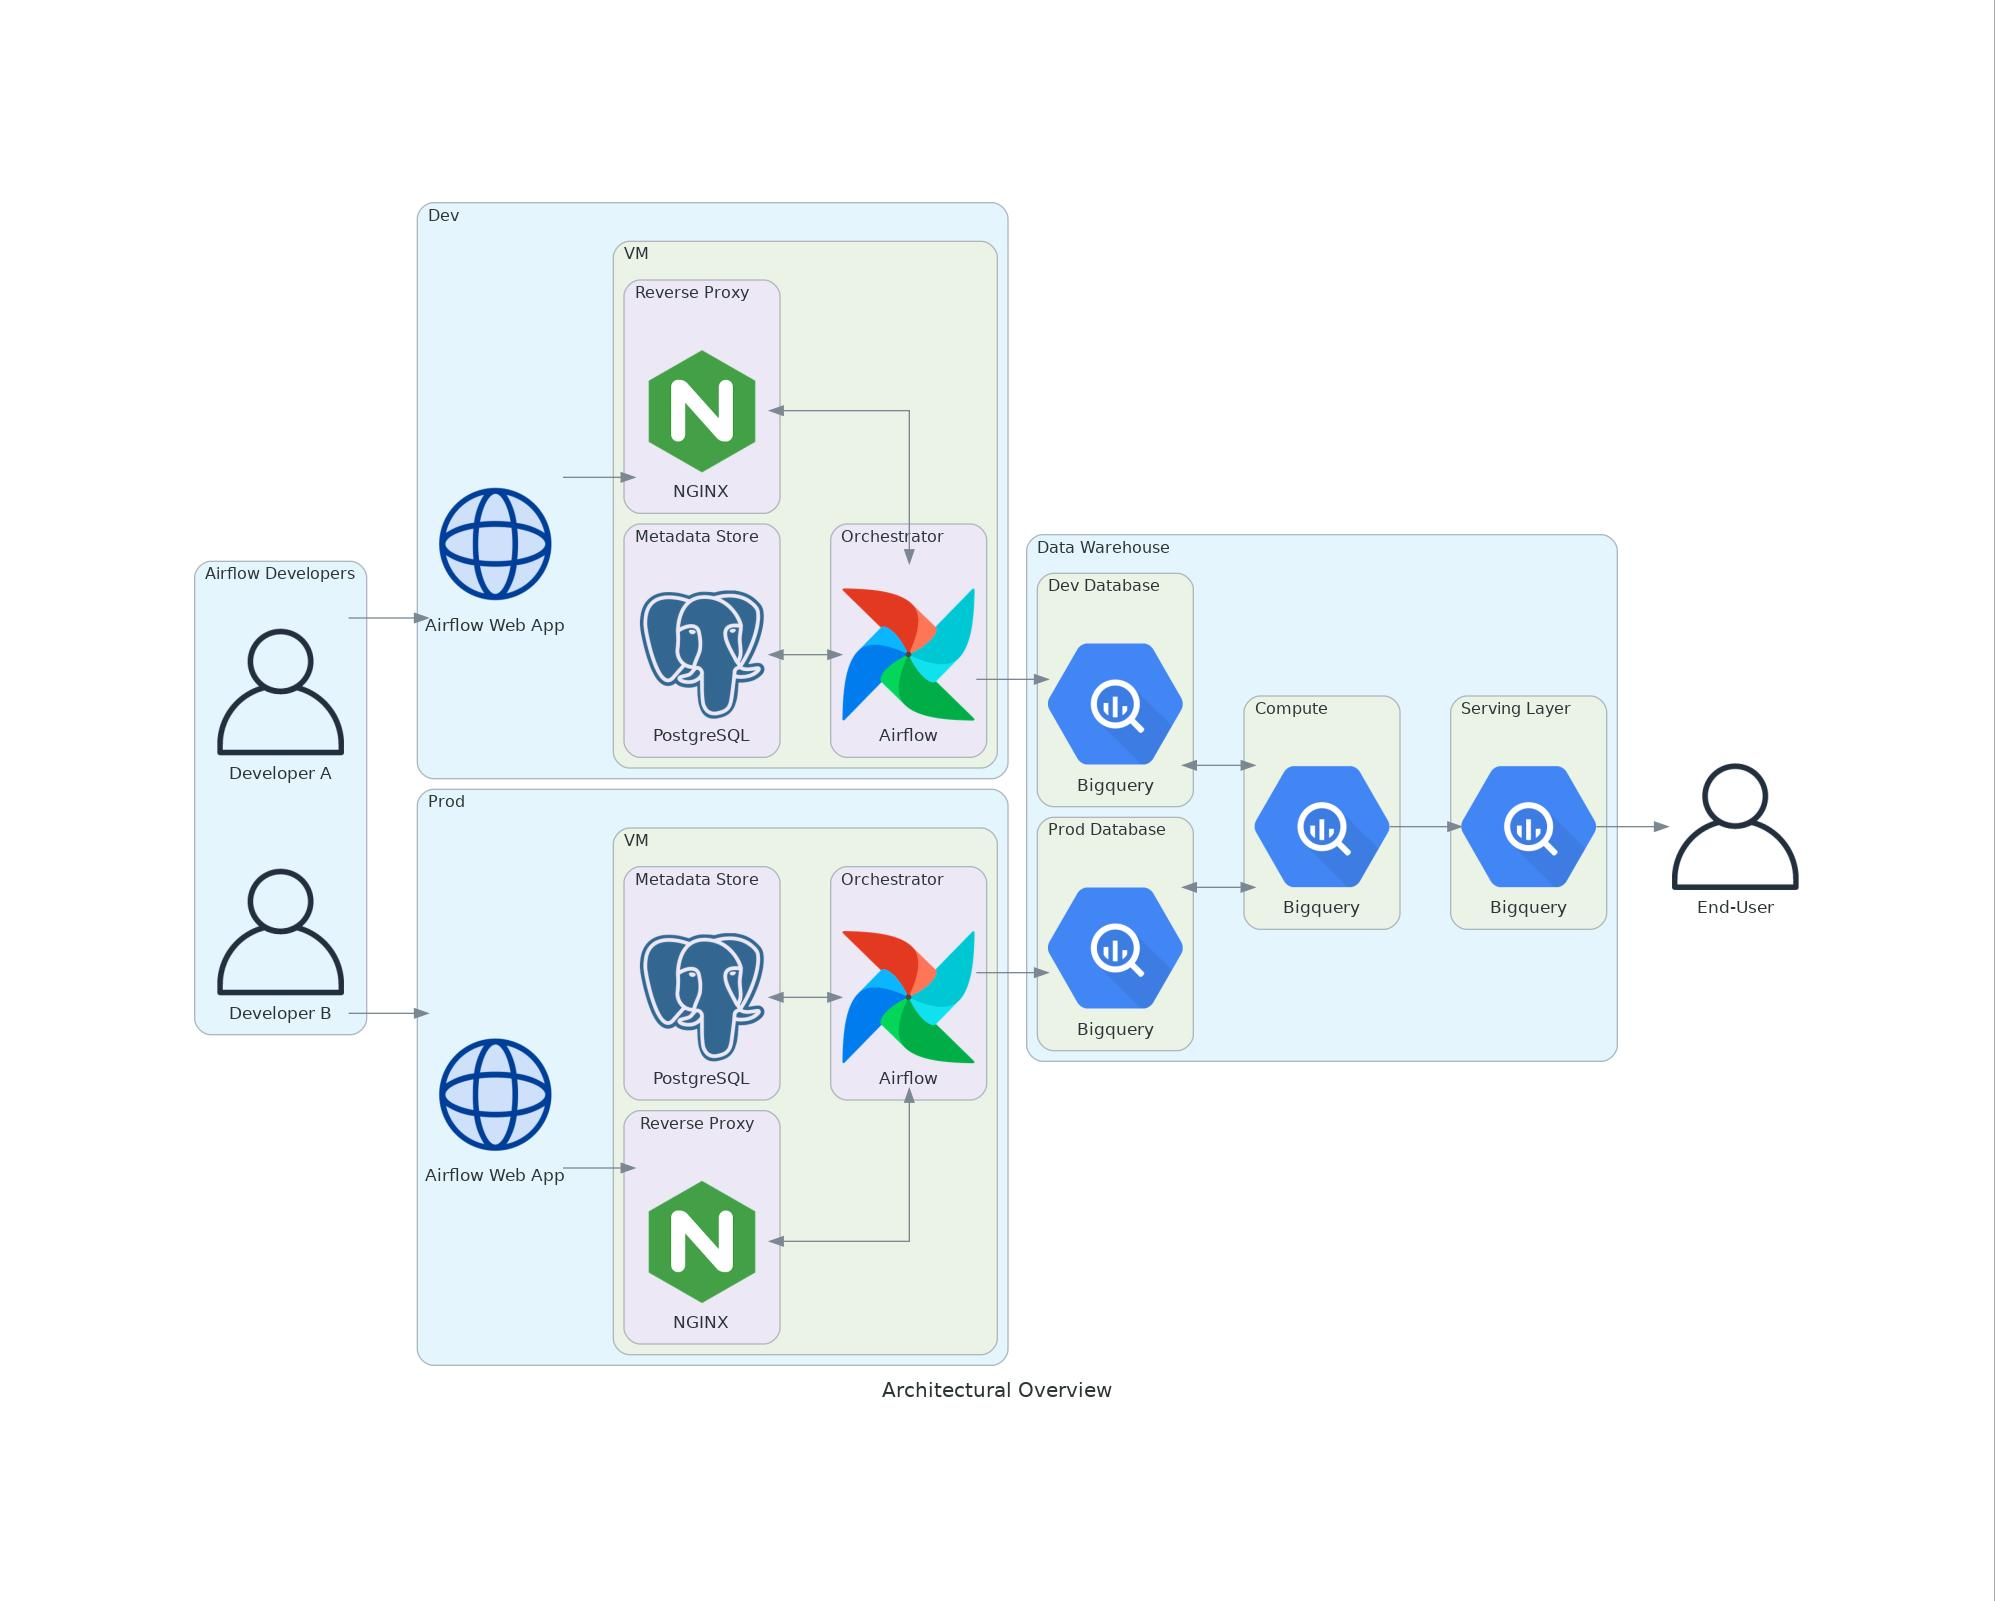
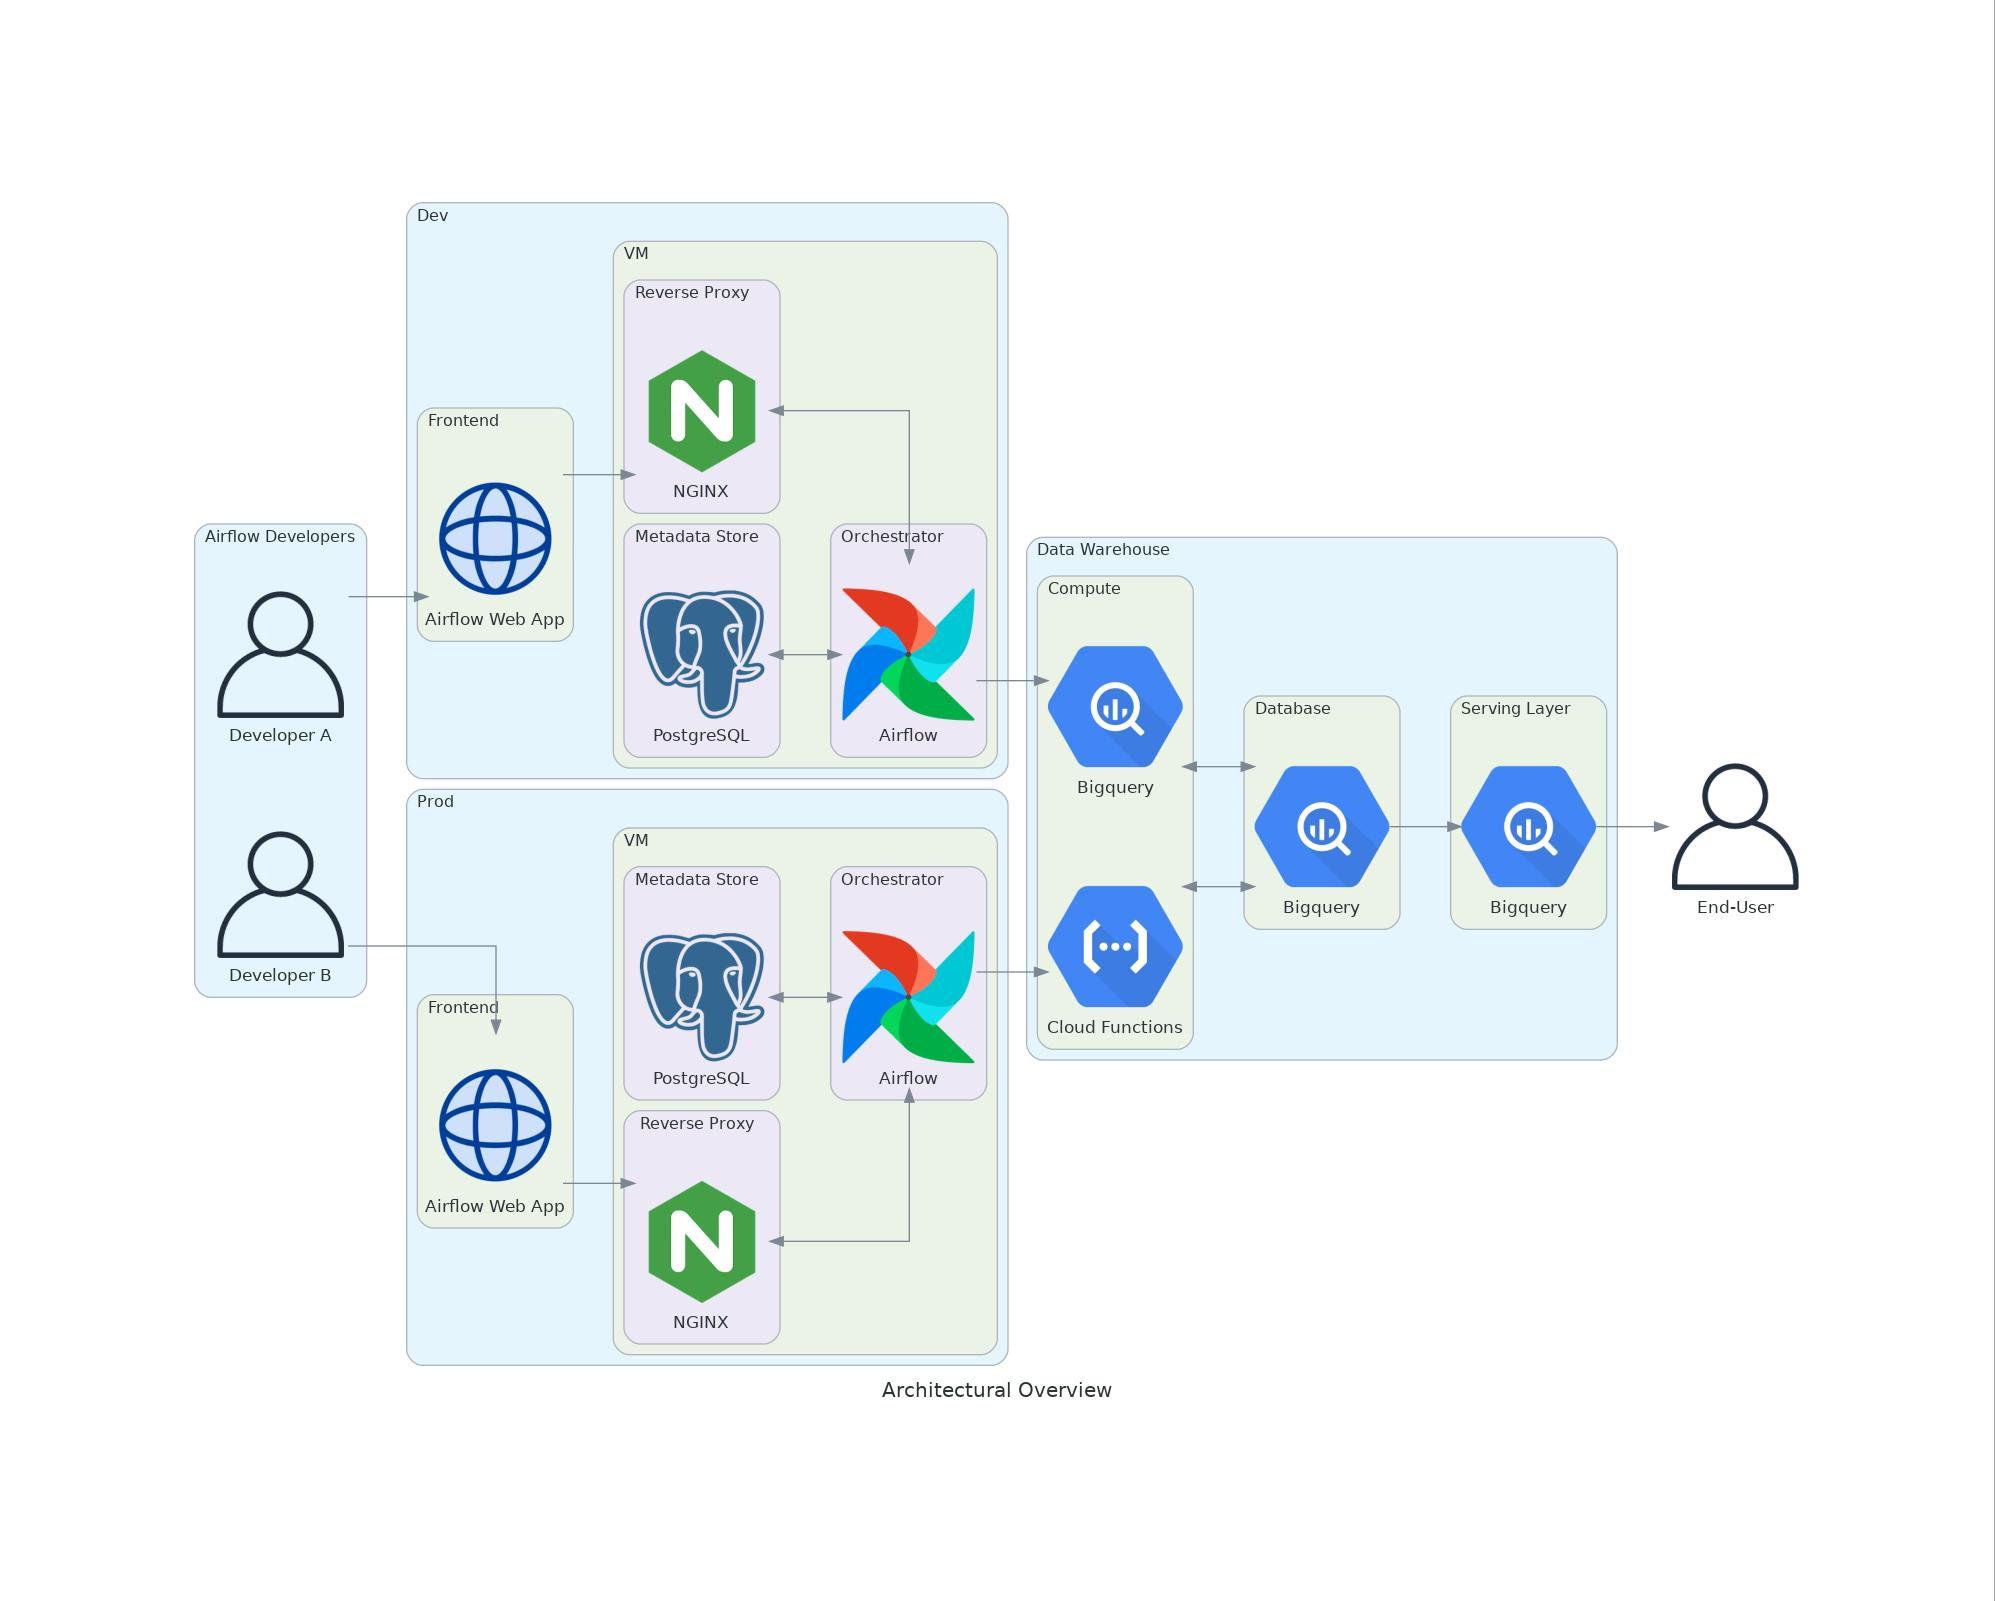
Update with Cloud Functions information

diff --git a/diagrams/generate_overview.py b/diagrams/generate_overview.py
@@ -2,11 +2,11 @@ from fileinput import filename
 from diagrams import Cluster, Diagram, Edge
 from diagrams.onprem.client import User
 from diagrams.digitalocean.network import Domain
-from diagrams.onprem.database import Druid
 from diagrams.onprem.workflow import Airflow
 from diagrams.onprem.database import PostgreSQL
 from diagrams.onprem.network import Nginx
 from diagrams.gcp.analytics import Bigquery
+from diagrams.gcp.compute import Functions
 
 
 with Diagram("Architectural Overview", show=False, outformat="jpg", filename="./images/architectural_overview"):
@@ -17,7 +17,8 @@ with Diagram("Architectural Overview", show=False, outformat="jpg", filename="./
     end_user = User("End-User")
 
     with Cluster("Dev"):
-        web_dev = Domain("Airflow Web App")
+        with Cluster("Frontend"):
+            web_dev = Domain("Airflow Web App")
         with Cluster("VM"):
 
             with Cluster("Reverse Proxy"):
@@ -35,7 +36,8 @@ with Diagram("Architectural Overview", show=False, outformat="jpg", filename="./
 
 
     with Cluster("Prod"):
-        web_prod = Domain("Airflow Web App")
+        with Cluster("Frontend"):
+            web_prod = Domain("Airflow Web App")
 
         with Cluster("VM"):
             with Cluster("Metadata Store"):
@@ -52,21 +54,22 @@ with Diagram("Architectural Overview", show=False, outformat="jpg", filename="./
             
 
     with Cluster("Data Warehouse"):
-        with Cluster("Dev Database"):
-            bigquery_dev = Bigquery("Bigquery")
-        
-        with Cluster("Prod Database"):
-            bigquery_prod = Bigquery("Bigquery")
+        with Cluster("Database"):
+            bigquery = Bigquery("Bigquery")
 
         with Cluster("Compute"):
             bigquery_compute = Bigquery("Bigquery")
 
+        with Cluster("Compute"):
+            gcp_functions = Functions("Cloud Functions")
+
         with Cluster("Serving Layer"):
             bigquery_serving = Bigquery("Bigquery")
         
-        database = [bigquery_dev, bigquery_prod]
-        database >> Edge() << bigquery_compute
-        bigquery_compute >> bigquery_serving
+
+        all_compute = [bigquery_compute, gcp_functions]
+        all_compute >> Edge() << bigquery
+        bigquery >> bigquery_serving
 
 
     airflow_user_a >> web_dev
@@ -74,8 +77,8 @@ with Diagram("Architectural Overview", show=False, outformat="jpg", filename="./
     web_dev >> nginx_dev
     web_prod >> nginx_prod
 
-    airflow_dev >> bigquery_dev
-    airflow_prod >> bigquery_prod
+    airflow_dev >> bigquery_compute
+    airflow_prod >> gcp_functions
 
     bigquery_serving >> end_user
 

diff --git a/README.md b/README.md
@@ -16,9 +16,10 @@ Alternatively, if you are viewing this README on the VM itself, and are using Vi
 ### Important Links
 
 * Airflow Web App for Dev VM: [`https://dev.is3107.live/`](https://dev.is3107.live/)
+    * VM at `34.127.0.57`
 
 * Airflow Web App for Production VM [`https://is3107.live/`](https://is3107.live/)
-    * TODO Not up yet -> Currently just redirects to Dev VM :upside_down_face: 
+    * VM at `35.199.159.0`
 
 ### First-time Setup
 1. SSH into the Dev VM:
@@ -268,6 +269,33 @@ Hadoop HDFS (Storage) - Spark (Compute) - Hive / Presto (Serving Layer)
 Ultimately, we chose not to do so because it was likely that we would have only been able to deploy 1-2 nodes at most due to cost considerations, defeating the point of implementing a distributed storage and compute architecture.
 </details>
 
+### Cloud Functions
+
+Cloud Functions serves as our secondary compute cluster, supplementing BigQuery. Its use-case is for scenarios where making use of BigQuery is impossible. 
+
+For example, pre-processing tasks in an ingestion DAG. Making use of BigQuery here is not possible given that the data isn't even loaded into BigQuery yet. Loading the data first, and then conducting the processing steps is also not possible, since such pre-processing is often **required** to load the data into BigQuery. Examples include: 
+
+* Formatting column names
+* Adding partition date column 
+
+#### Airflow as an Orchestrator
+
+Cloud Functions allows us to offload such pre-processing tasks to a serverless compute cluster. This ensures that Airflow remains focused on its role as an orchestrator. 
+
+This is particularly important - doing pre-processing in the DAG itself, and thus in Airflow - is by nature inefficient, and could prove disastrous especially when the size of the dataset scales up. Processing big data could result in Out-Of-Memory errors on the small VM that we have Airflow on. Making use of Cloud Functions, which has the ability to scale up and down to handle varying workloads, helps to neatly solve this issue.
+
+#### Cloud Functions Usage
+
+Our workflow for Cloud Functions is simple.
+
+1. Generate `requirements.txt` and package it together with the code in a `.zip` file
+
+2. Deploy to Google Cloud
+
+3. Invoke the Function
+
+This will be typically defined as a taskgroup in our ingestion DAGs, and will be run as the first task in the DAG. The DAG itself thus also handles the CI/CD of the Cloud Function itself, ensuring that any changes to the Cloud Function code will be propagated to Google Cloud at the start of the DAG run. Since we are only charged for invocations, and not deployments, re-deploying frequently is not an issue.
+
 
 ## Data Pipeline Architecture
 
@@ -398,6 +426,9 @@ Example: `is3107.lti_ods.ods_finviz_stock_performance_daily`
         - `daily` here would be used to refer to daily snapshot tables (contains data from a daily batch job)
         - `historical` would be a table that *accumulates* data from an upstream daily snapshot table, giving a full view of the data
 
+- Column Name
+    - Format: `Pascal_Snake_Case`
+
 
 
 
@@ -442,6 +473,37 @@ In some cases, writing to a BigQuery table is not accomplished within 1 task. In
 The nested tasks within the task group should then have names that appropriately and concisely describe their actions.
 
 ## Best Practices
+
+### Table Partitions
+
+The majority of our tables will be partitioned on day. The data available in the partition can be of 2 kinds:
+* Daily data 
+    * Data that has a natural day split, such as transactions
+* Snapshot data 
+    * Aggregated data, where each partition is a historical snapshot of the current state of data on that day itself
+
+Table partitioning provides several advantages:
+1. Data idempotency
+    * Particularly in the case of aggregated data, snapshotting it via partitions allows for backfilling and reruns to be done easily
+    * For unpartitoned tables, `INSERTS/DELETES` over the past few days would mean that a rerun would generate different results
+
+2. Reducing data scanned
+    * This helps with both query speed, and cost
+
+### Time-Zone Aware DAG
+
+Airflow provides time-zone aware DAGs. However, the templating variables provided will not follow time-zone settings, and are instead UTC0. Please use `dag_run.logical_date.astimezone(dag.timezone)` in your templates instead.
+
+For example:
+```py
+## Original YYYY-MM-DD
+{{ ds }}
+
+## Timezone aware YYYY-MM-DD
+{{ dag_run.logical_date.astimezone(dag.timezone) | ds }}
+```
+
+Please refer to [Airflow Templates](https://airflow.apache.org/docs/apache-airflow/stable/templates-ref.html) for more filters on formatting the timezone aware datetime
 
 ## Useful Tools
 
